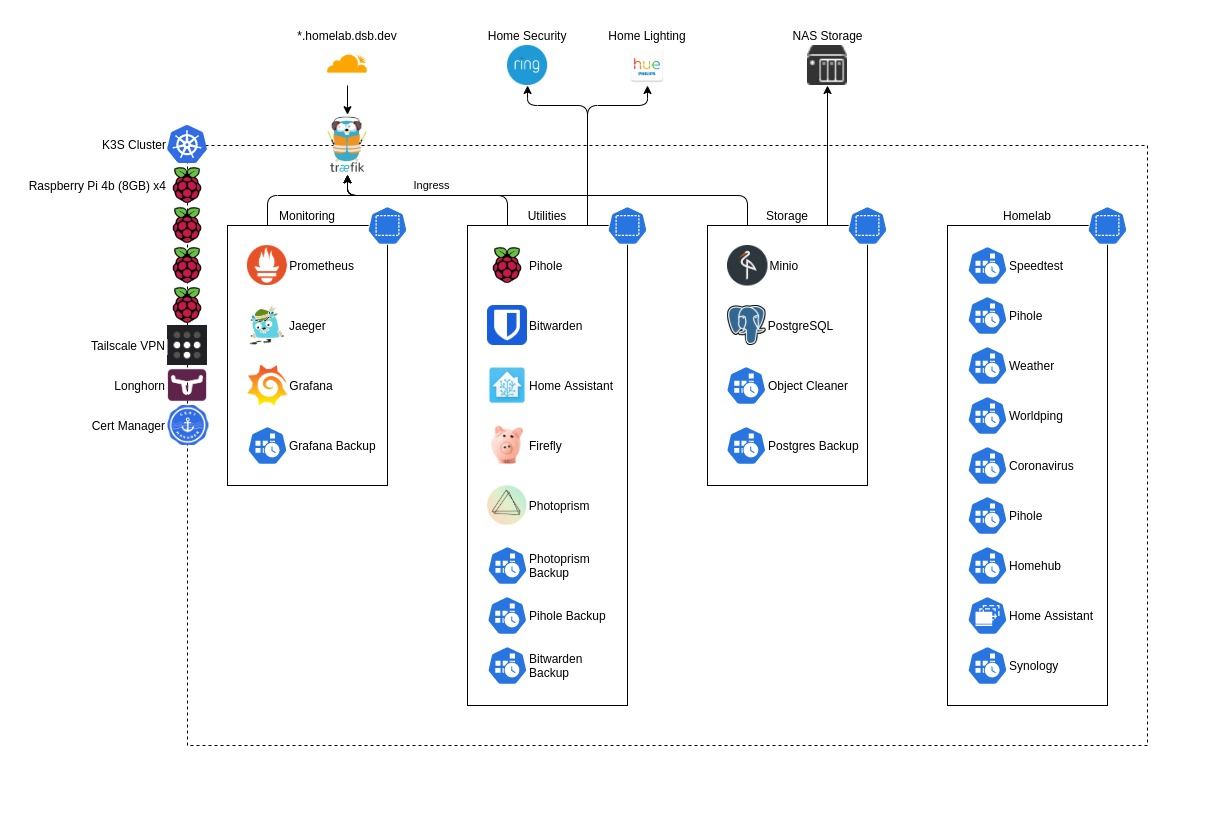
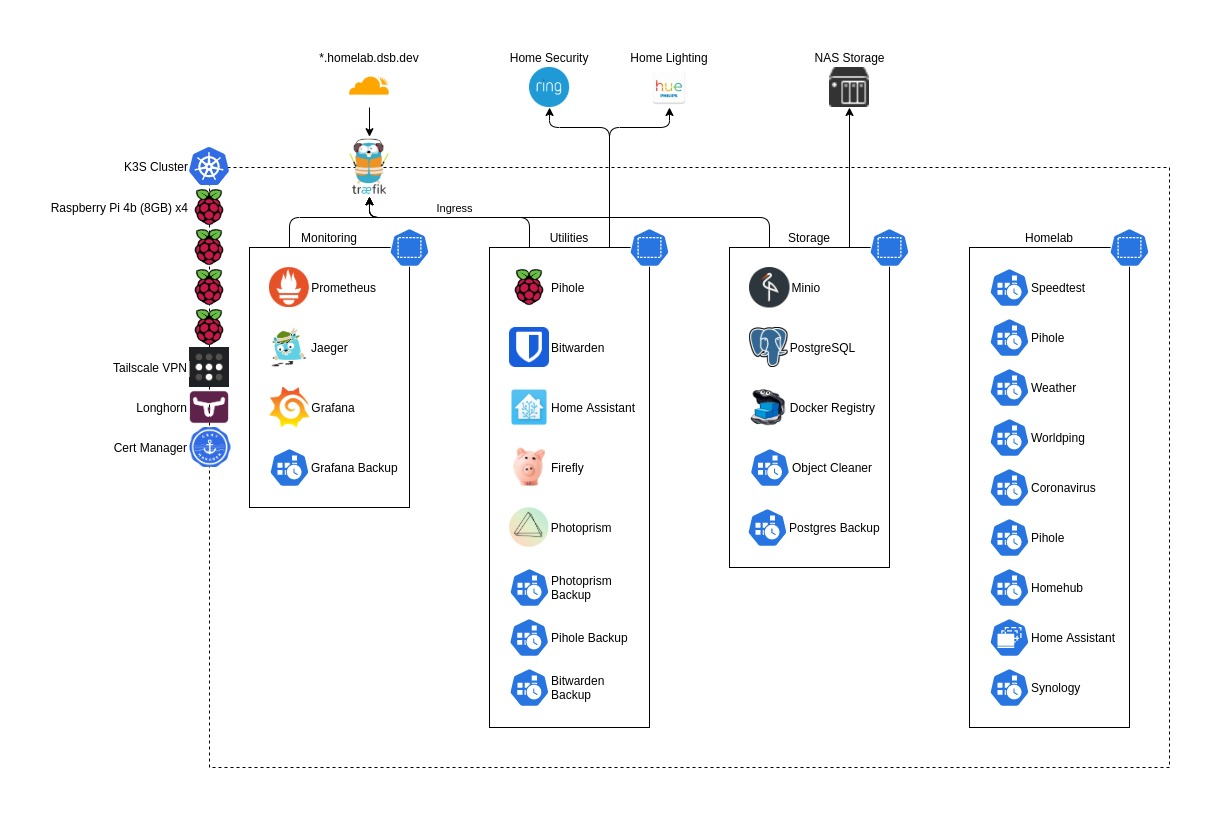
Update diagram and readme for docker-registry (#68)

diff --git a/README.md b/README.md
@@ -57,6 +57,8 @@ Here's a list of third-party applications I'm using alongside my custom applicat
 * [firefly](https://www.firefly-iii.org/) - A free and open source personal finances manager.
 * [photoprism](https://photoprism.pro/features) - Personal Photo Management powered by Go and Google TensorFlow.
 * [cert-manager](https://cert-manager.io/) - x509 certificate management for Kubernetes.
+* [docker-registry](https://docs.docker.com/registry/) - A stateless, highly scalable server side application that stores 
+  and lets you distribute Docker images
 
 ## Prometheus exporters
 
